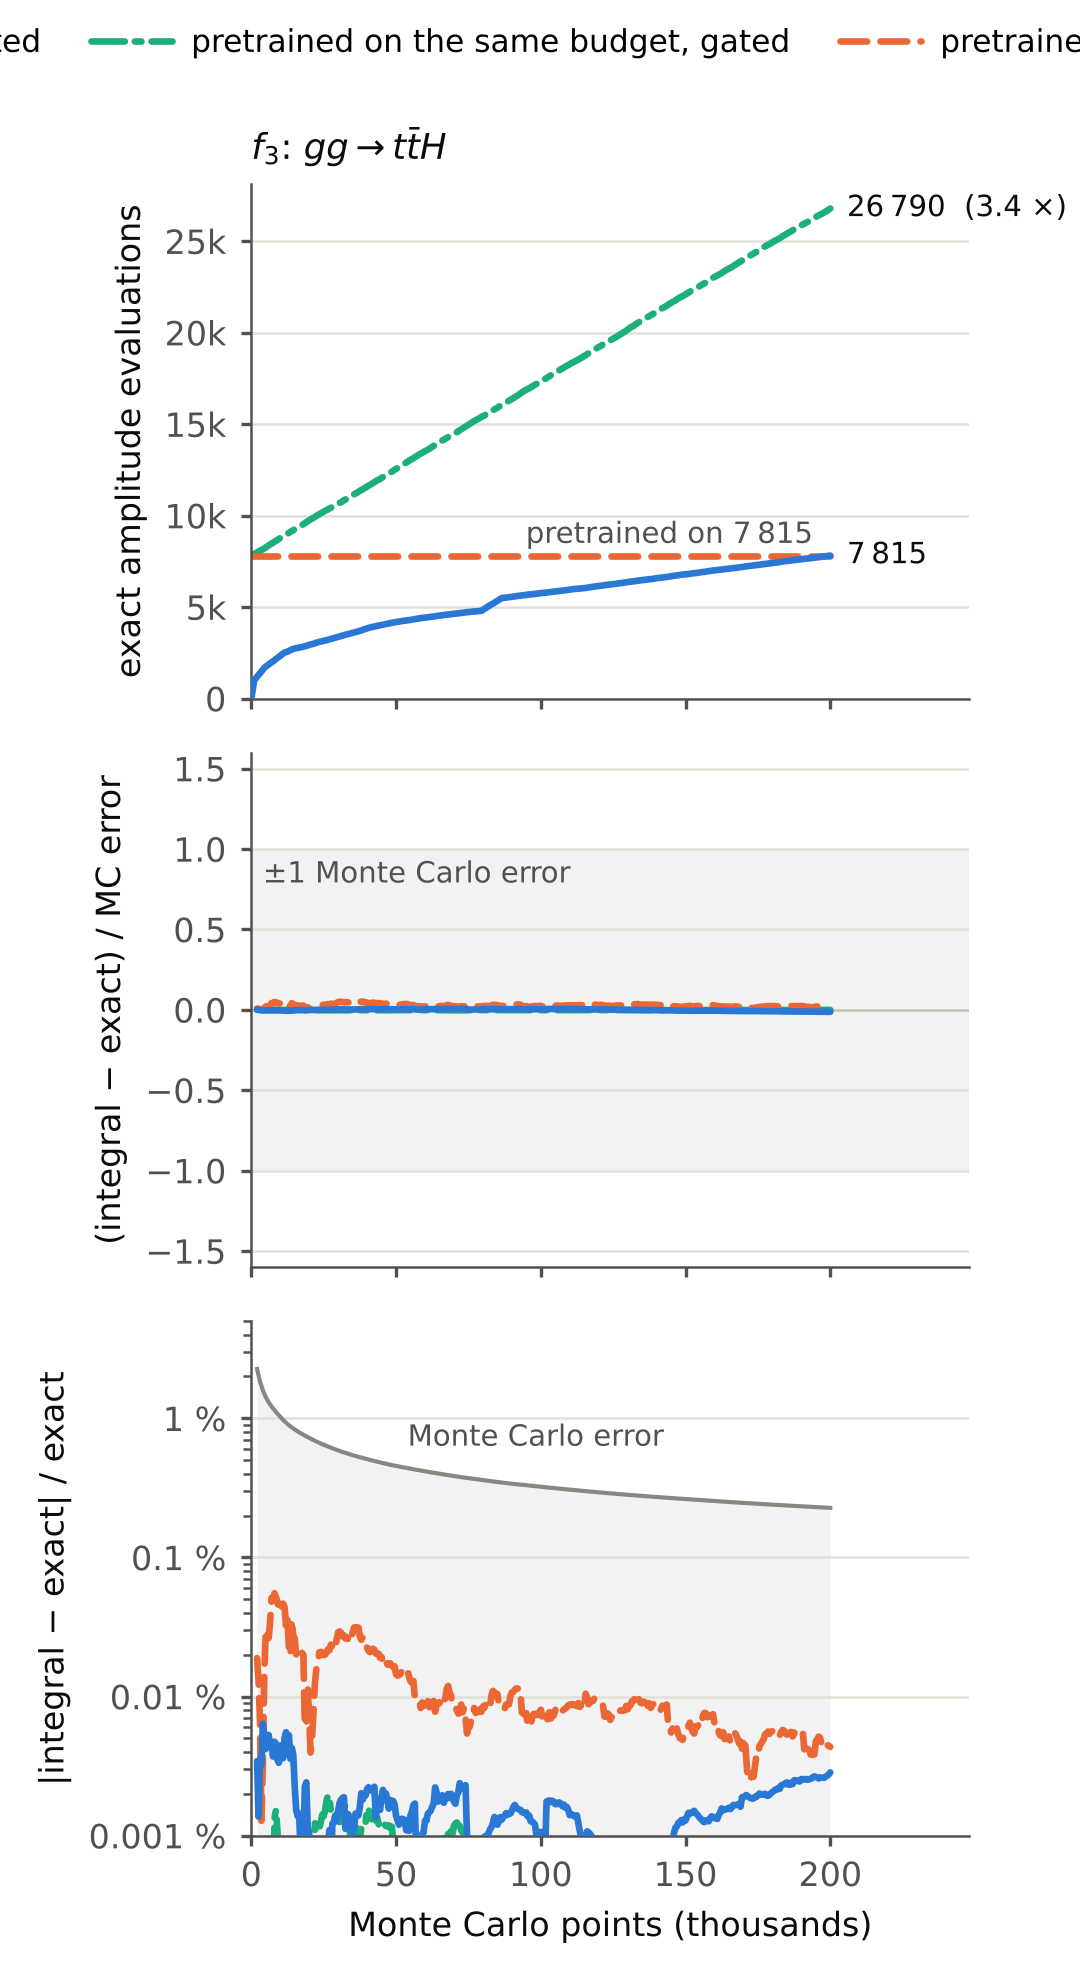
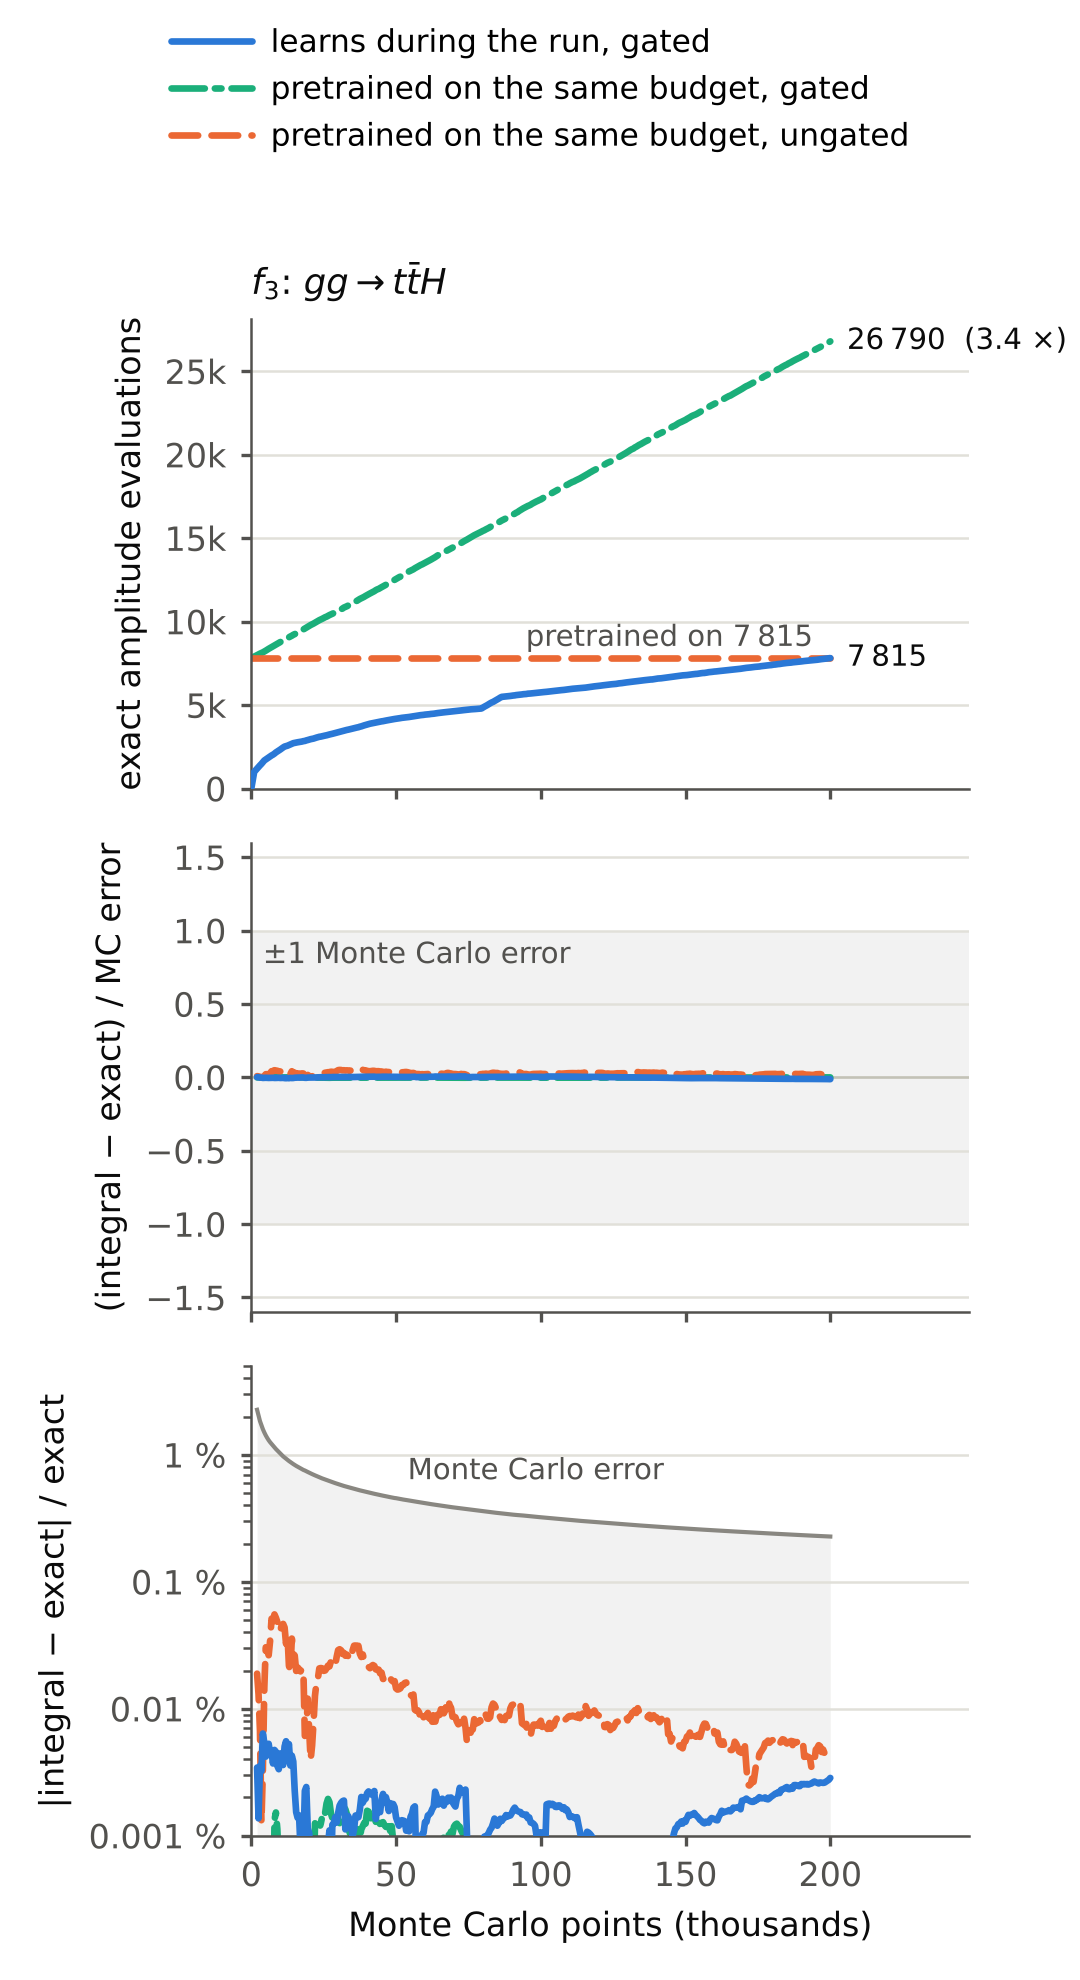
Single-channel legend for the online-against-pretrained figure
Claude-Session: https://claude.ai/code/session_0153hpVKJ5JPDq5CRhfaL7QL

diff --git a/examples/plot_online_vs_pretrained.py b/examples/plot_online_vs_pretrained.py
@@ -104,9 +104,10 @@ def main():
             if args.absolute:
                 axes[2, j].set_ylabel("|integral $-$ exact| / exact")
     handles, labels = axes[0, 0].get_legend_handles_labels()
-    fig.legend(handles, labels, loc="upper center", ncol=3, frameon=False, handlelength=2.6, columnspacing=1.6,
+    ncol = 3 if len(chans) > 1 else 1   # one channel: stack the legend entries
+    fig.legend(handles, labels, loc="upper center", ncol=ncol, frameon=False, handlelength=2.6, columnspacing=1.6,
                handletextpad=0.6, bbox_to_anchor=(0.5, 1.0))
-    fig.tight_layout(h_pad=1.0, w_pad=1.2, rect=(0, 0, 1, 1 - 0.3 / fig.get_figheight()))
+    fig.tight_layout(h_pad=1.0, w_pad=1.2, rect=(0, 0, 1, 1 - (0.3 if ncol == 3 else 0.75) / fig.get_figheight()))
     for ext in ("pdf", "png"):
         path = os.path.join(args.results_dir, f"online_vs_pretrained{args.suffix}.{ext}")
         fig.savefig(path, dpi=300 if ext == "png" else None)
